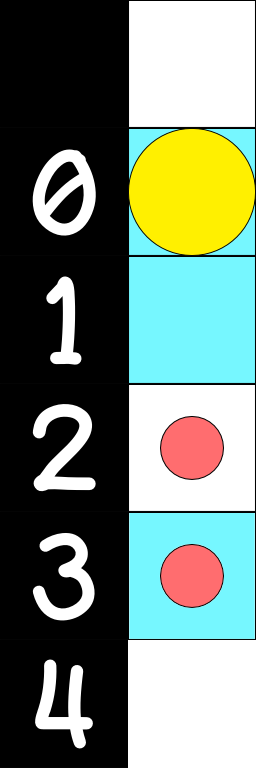
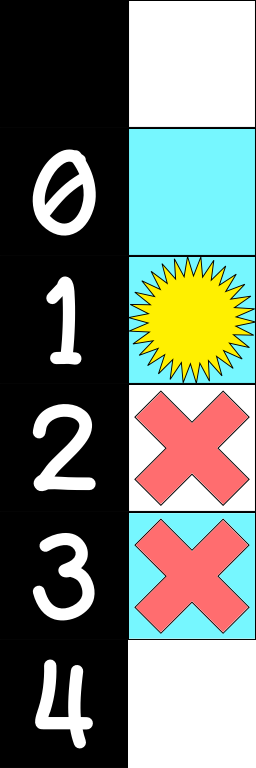
Added new textures for cell

Changed region(s): [[0.5, 0.1562, 1.0, 0.8438]]

diff --git a/source/src/at/ac/uibk/akari/gamePlay/view/PuzzleHUD.java b/source/src/at/ac/uibk/akari/gamePlay/view/PuzzleHUD.java
@@ -47,7 +47,7 @@ public class PuzzleHUD extends AbstractHUD implements StopClockUpdateListener {
 
 		buttons.add(new HUDButton(desiredWidth - PuzzleHUD.BORDER_INSET_X - PuzzleHUD.BUTTONS_SIZE, PuzzleHUD.BORDER_INSET_Y, PuzzleHUD.BUTTONS_SIZE, PuzzleHUD.BUTTONS_SIZE, this.vertexBufferObjectManager, TextureLoader.getInstance().getTexture(TextureType.MENU_ICONS, 0, 2), DefaultMenuItem.HELP));
 
-		this.placeingModeButton = new HUDToggleButton(desiredWidth - PuzzleHUD.BORDER_INSET_X - PuzzleHUD.BUTTONS_SIZE - PuzzleHUD.BUTTONS_SEPARATOR - PuzzleHUD.BUTTONS_SIZE, PuzzleHUD.BORDER_INSET_Y, PuzzleHUD.BUTTONS_SIZE, PuzzleHUD.BUTTONS_SIZE, this.vertexBufferObjectManager, TextureLoader.getInstance().getTextureRegion(TextureType.MENU_ICONS), TextureType.MENU_ICONS.getTileNumber(0, 0), TextureType.MENU_ICONS.getTileNumber(0, 1), DefaultMenuItem.NEXT);
+		this.placeingModeButton = new HUDToggleButton(desiredWidth - PuzzleHUD.BORDER_INSET_X - PuzzleHUD.BUTTONS_SIZE - PuzzleHUD.BUTTONS_SEPARATOR - PuzzleHUD.BUTTONS_SIZE, PuzzleHUD.BORDER_INSET_Y, PuzzleHUD.BUTTONS_SIZE, PuzzleHUD.BUTTONS_SIZE, this.vertexBufferObjectManager, TextureLoader.getInstance().getTextureRegion(TextureType.MENU_ICONS), TextureType.MENU_ICONS.getTileNumber(1, 3), TextureType.MENU_ICONS.getTileNumber(1, 2), DefaultMenuItem.NEXT);
 		buttons.add(this.placeingModeButton);
 
 		return buttons;

diff --git a/source/src/at/ac/uibk/akari/gameField/view/Cell.java b/source/src/at/ac/uibk/akari/gameField/view/Cell.java
@@ -18,13 +18,13 @@ public class Cell extends AnimatedSprite {
 		 */
 		BLANK(1, 0),
 		/**
-		 * A cell that represents a lamp
-		 */
-		LAMP(1, 1),
-		/**
 		 * A cell that is lighted by a lamp
 		 */
-		LIGHTED(1, 2),
+		LIGHTED(1, 1),
+		/**
+		 * A cell that represents a lamp
+		 */
+		LAMP(1, 2),
 		/**
 		 * A cell that is marked by the user
 		 */
